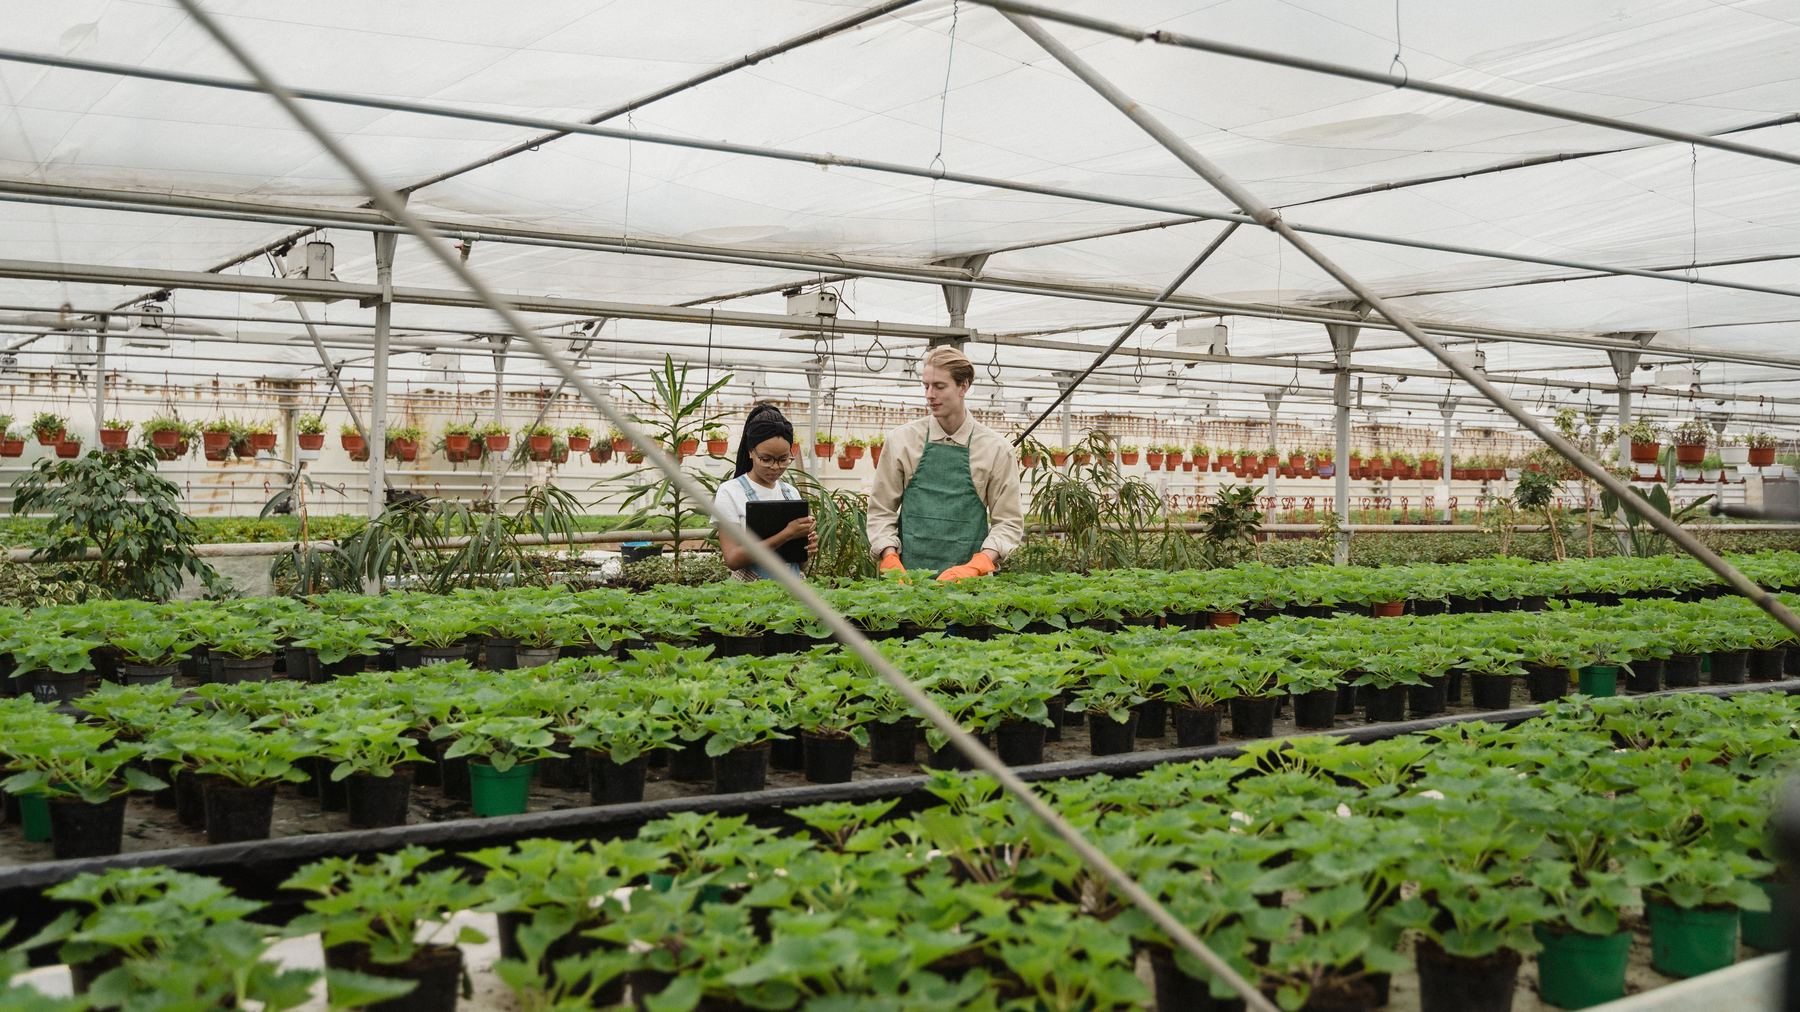
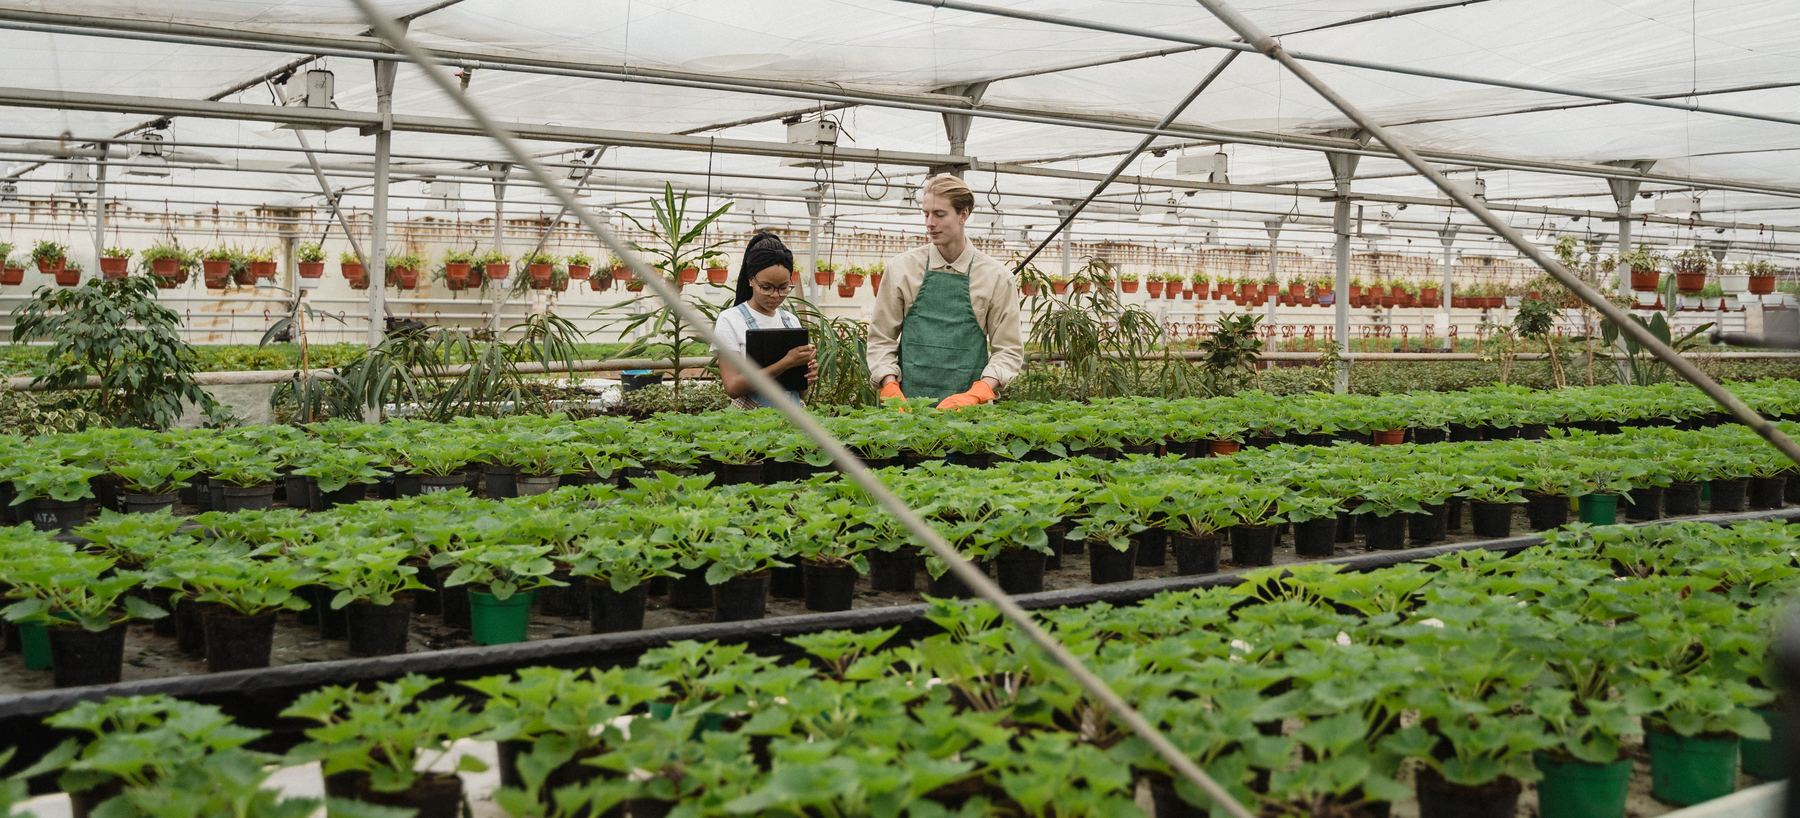
Recrop Growing photo, drop closing eyebrow, speed reveal

diff --git a/styles.css b/styles.css
@@ -1590,22 +1590,6 @@ body.has-custom-cursor button {
   justify-content: center;
 }
 
-.sweep-card-close .eyebrow {
-  color: var(--color-cream);
-  display: flex;
-  align-items: center;
-  gap: 0.75rem;
-  margin-bottom: var(--space-2);
-}
-
-.sweep-card-close .eyebrow::before {
-  content: '';
-  width: 2.1rem;
-  height: 3px;
-  background: var(--color-amber);
-  flex: none;
-}
-
 .sweep-close-line {
   font-family: var(--font-display);
   font-size: clamp(1.5rem, 3.5vw, 2.75rem);
@@ -1625,7 +1609,6 @@ body.has-custom-cursor button {
 /* Text rises in as the closing card lands. The JS adds
    .is-landed when this card reaches center. */
 @media (min-width: 48rem) and (hover: hover) {
-  .sweep-card-close .eyebrow,
   .sweep-close-line,
   .sweep-card-close .text-link {
     opacity: 0;
@@ -1633,21 +1616,15 @@ body.has-custom-cursor button {
     transition: opacity 0.5s ease, transform 0.5s ease;
   }
 
-  .sweep-card-close.is-landed .eyebrow {
-    opacity: 1;
-    transform: none;
-    transition-delay: 0.1s;
-  }
-
   .sweep-card-close.is-landed .sweep-close-line {
     opacity: 1;
     transform: none;
-    transition-delay: 0.2s;
+    transition-delay: 0.05s;
   }
 
   .sweep-card-close.is-landed .text-link {
     opacity: 1;
     transform: none;
-    transition-delay: 0.35s;
+    transition-delay: 0.2s;
   }
 }

diff --git a/script.js b/script.js
@@ -341,7 +341,7 @@
     var closeCard = track.querySelector('.sweep-card-close');
     if (closeCard) {
       var r = closeCard.getBoundingClientRect();
-      var visible = r.left < window.innerWidth * 0.6 && r.right > 0;
+      var visible = r.left < window.innerWidth * 0.85 && r.right > 0;
       closeCard.classList.toggle('is-landed', visible);
     }
 

diff --git a/pages/roles-we-place.html b/pages/roles-we-place.html
@@ -121,7 +121,6 @@
           <li class="sweep-card sweep-card-close">
             <div class="sweep-content">
               <p class="sweep-index"><span>06</span> / 06</p>
-              <p class="eyebrow">The through-line</p>
               <p class="sweep-close-line">Every search is built around the role: a structured intake, a strategy map made for it, outreach we never hand off.</p>
               <a class="text-link" href="how-we-work.html">See how we work</a>
             </div>